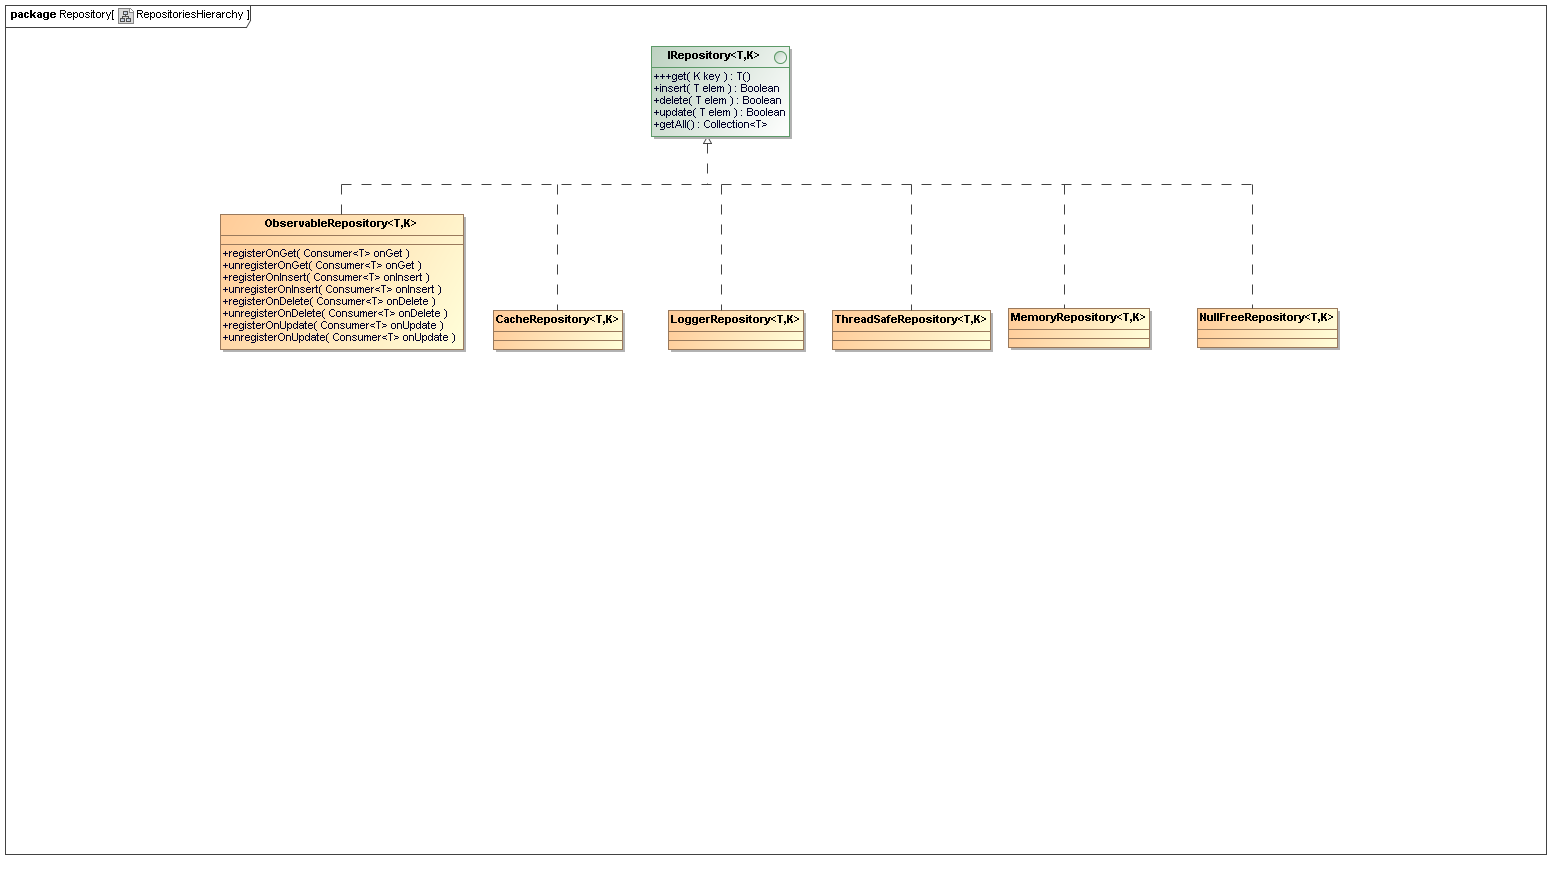
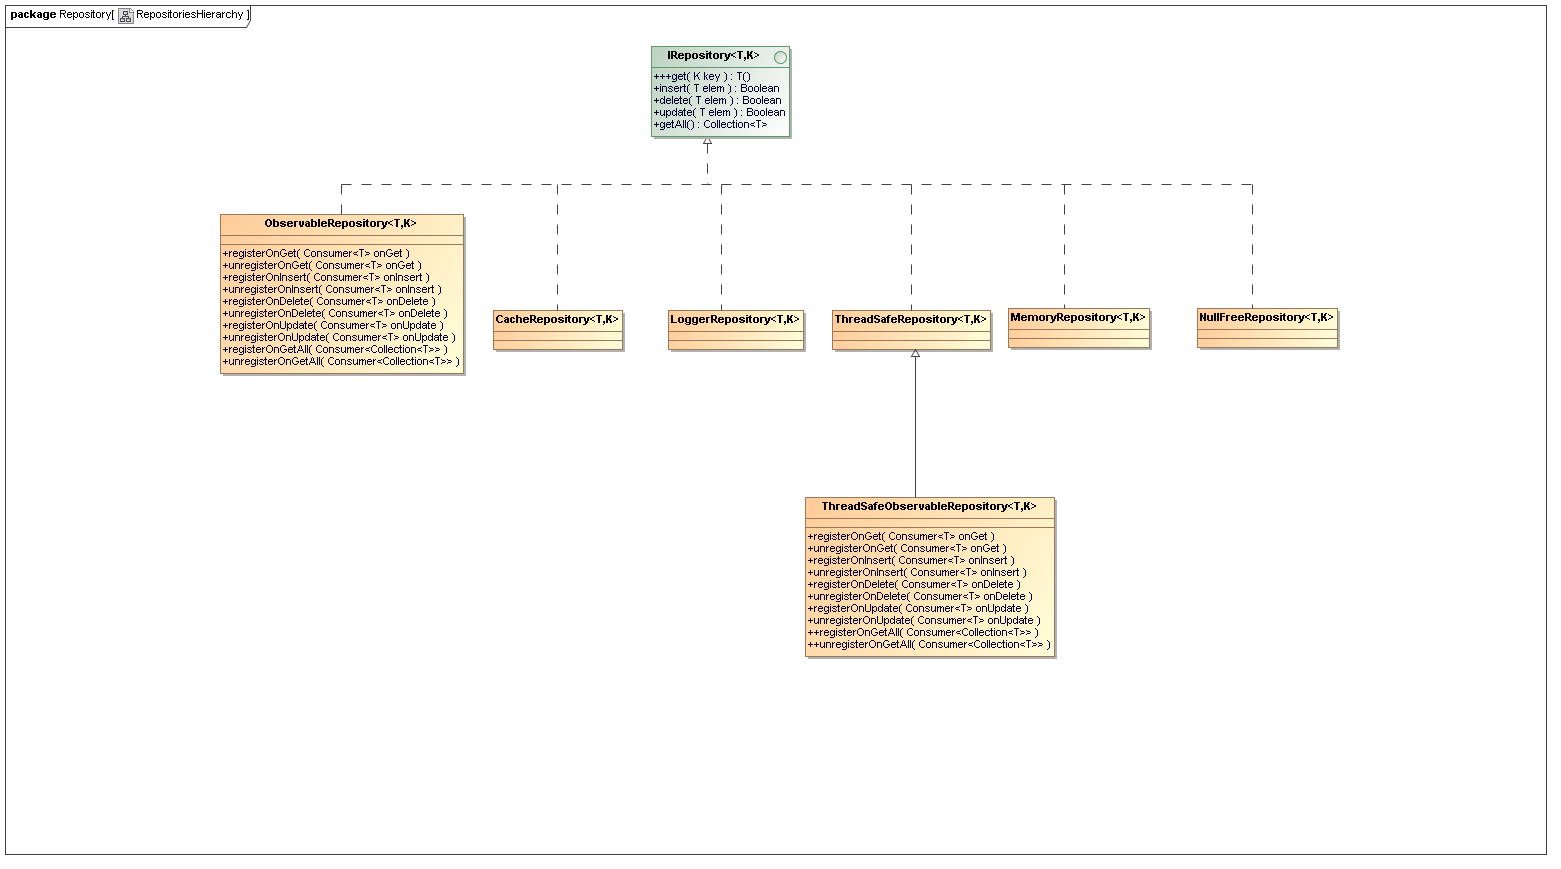
ThreadSafeObservableRepository added

Changed region(s): [[0.492, 0.5593, 0.6765, 0.7768], [0.123, 0.3728, 0.3075, 0.435]]

diff --git a/repository/repository/src/main/java/app/utils/repository/repository/ThreadSafeObservableRepository.java b/repository/repository/src/main/java/app/utils/repository/repository/ThreadSafeObservableRepository.java
@@ -1,0 +1,77 @@
+package app.utils.repository.repository;
+
+import java.util.Collection;
+import java.util.function.Consumer;
+
+public class ThreadSafeObservableRepository<T,K> extends ThreadSafeRepository<T,K>{
+	
+	private final ObservableRepository<T,K> repo;
+	
+	public ThreadSafeObservableRepository(IRepository<T,K> repository){
+		super(new ObservableRepository<>(repository));
+		this.repo = (ObservableRepository<T,K>)super.repository;
+	}
+	
+	
+	
+	public void registerOnGet(Consumer<T> onGet){
+		synchronized (super.lock) {
+			repo.registerOnGet(onGet);
+		}
+	}
+	
+	public void unregisterOnGet(Consumer<T> onGet){
+		synchronized (super.lock) {
+			repo.unregisterOnGet(onGet);
+		}
+	}
+	
+	public void registerOnGetAll(Consumer<Collection<T>> onGetAll){
+		synchronized (super.lock) {
+			repo.registerOnGetAll(onGetAll);
+		}
+	}
+	
+	public void unregisterOnGetAll(Consumer<Collection<T>> onGetAll){
+		synchronized (super.lock) {
+			repo.unregisterOnGetAll(onGetAll);
+		}
+	}
+	
+	public void registerOnInsert(Consumer<T> onInsert){
+		synchronized (super.lock) {
+			repo.registerOnInsert(onInsert);
+		}
+	}
+	
+	public void unregisterOnInsert(Consumer<T> onInsert){
+		synchronized (super.lock) {
+			repo.unregisterOnInsert(onInsert);
+		}
+	}
+	
+	public void registerOnDelete(Consumer<T> onDelete){
+		synchronized (super.lock) {
+			repo.registerOnDelete(onDelete);
+		}
+	}
+	
+	public void unregisterOnDelete(Consumer<T> onDelete){
+		synchronized (super.lock) {
+			repo.unregisterOnDelete(onDelete);
+		}
+	}
+	
+	public void registerOnUpdate(Consumer<T> onUpdate){
+		synchronized (super.lock) {
+			repo.registerOnUpdate(onUpdate);
+		}
+	}
+	
+	public void unregisterOnUpdate(Consumer<T> onUpdate){
+		synchronized (super.lock) {
+			repo.unregisterOnUpdate(onUpdate);
+		}
+	}
+	
+}

diff --git a/repository/repository/src/main/java/app/utils/repository/repository/ThreadSafeRepository.java b/repository/repository/src/main/java/app/utils/repository/repository/ThreadSafeRepository.java
@@ -6,8 +6,8 @@ import app.utils.repository.utils.RepositoryException;
 
 public class ThreadSafeRepository<T,K> implements IRepository<T,K>{
 
-	private final IRepository<T,K> repository;
-	public final Object lock = new Object();
+	protected final IRepository<T,K> repository;
+	protected final Object lock = new Object();
 	
 	public ThreadSafeRepository(IRepository<T,K> repository) {
 		this.repository = repository;
